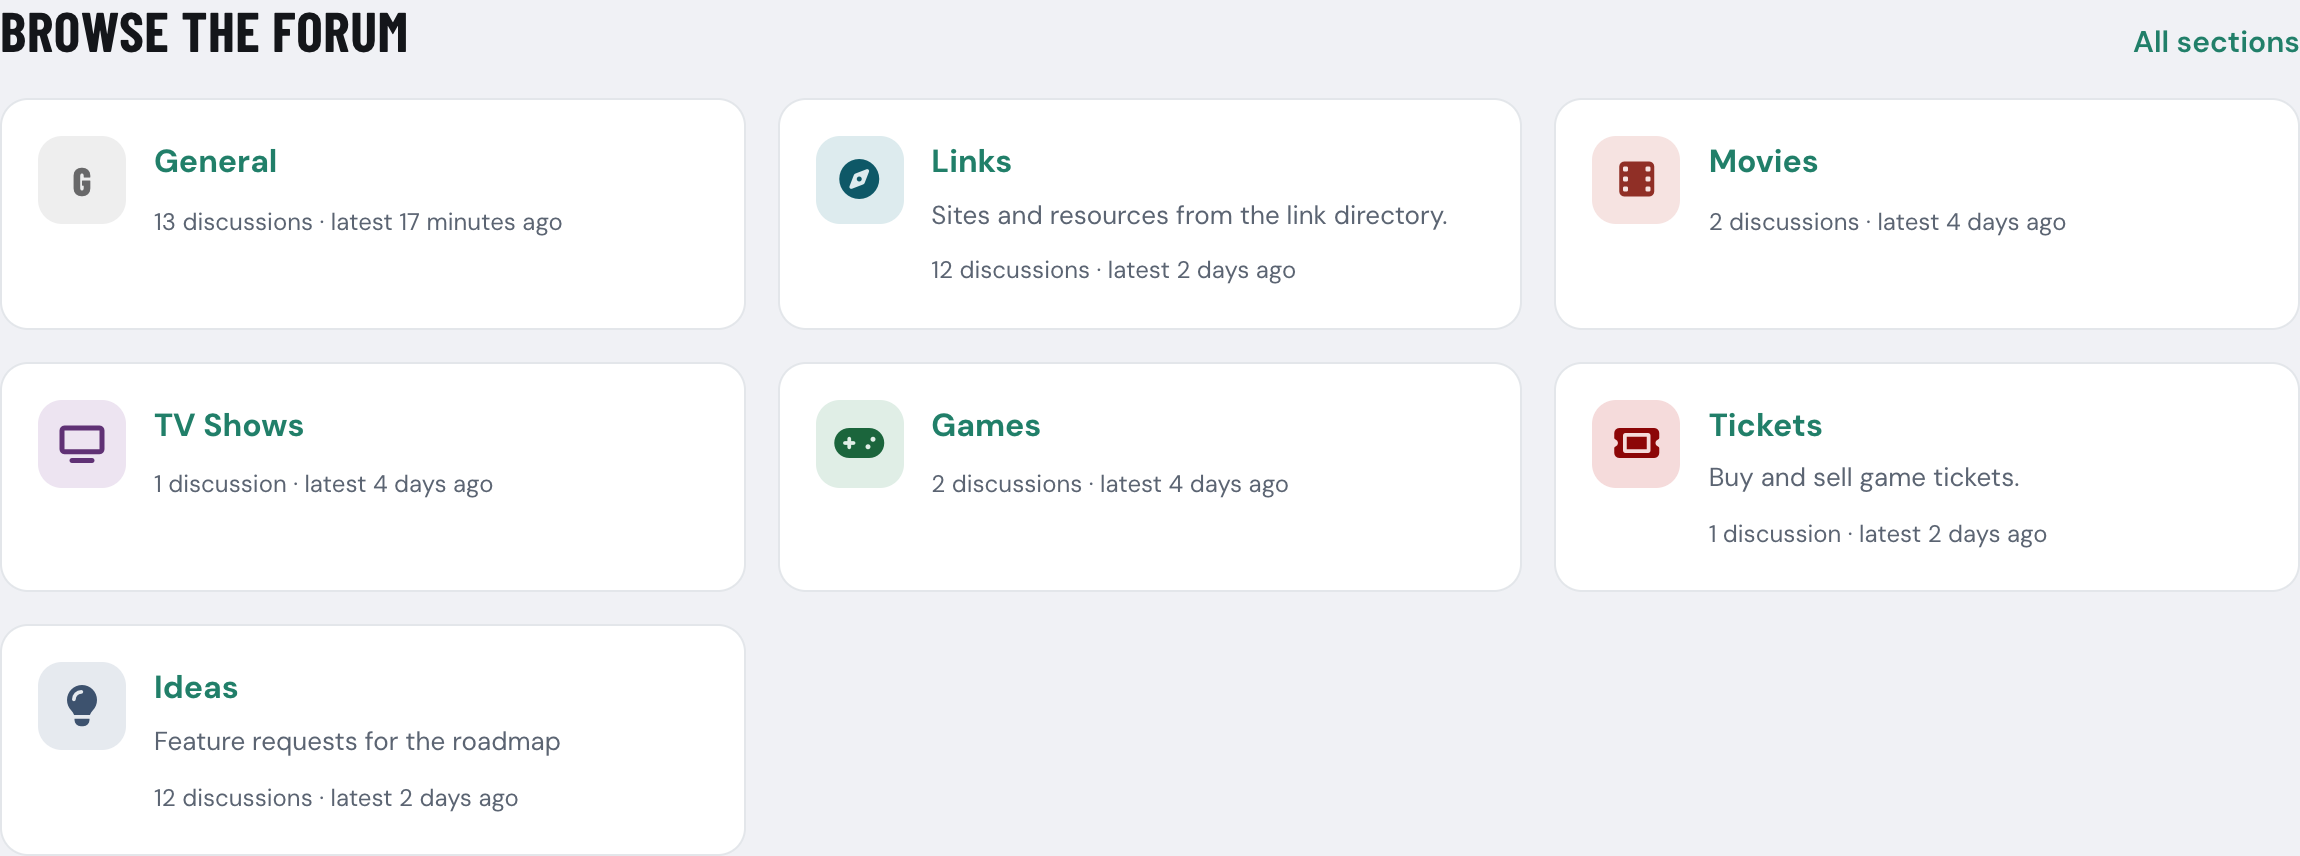
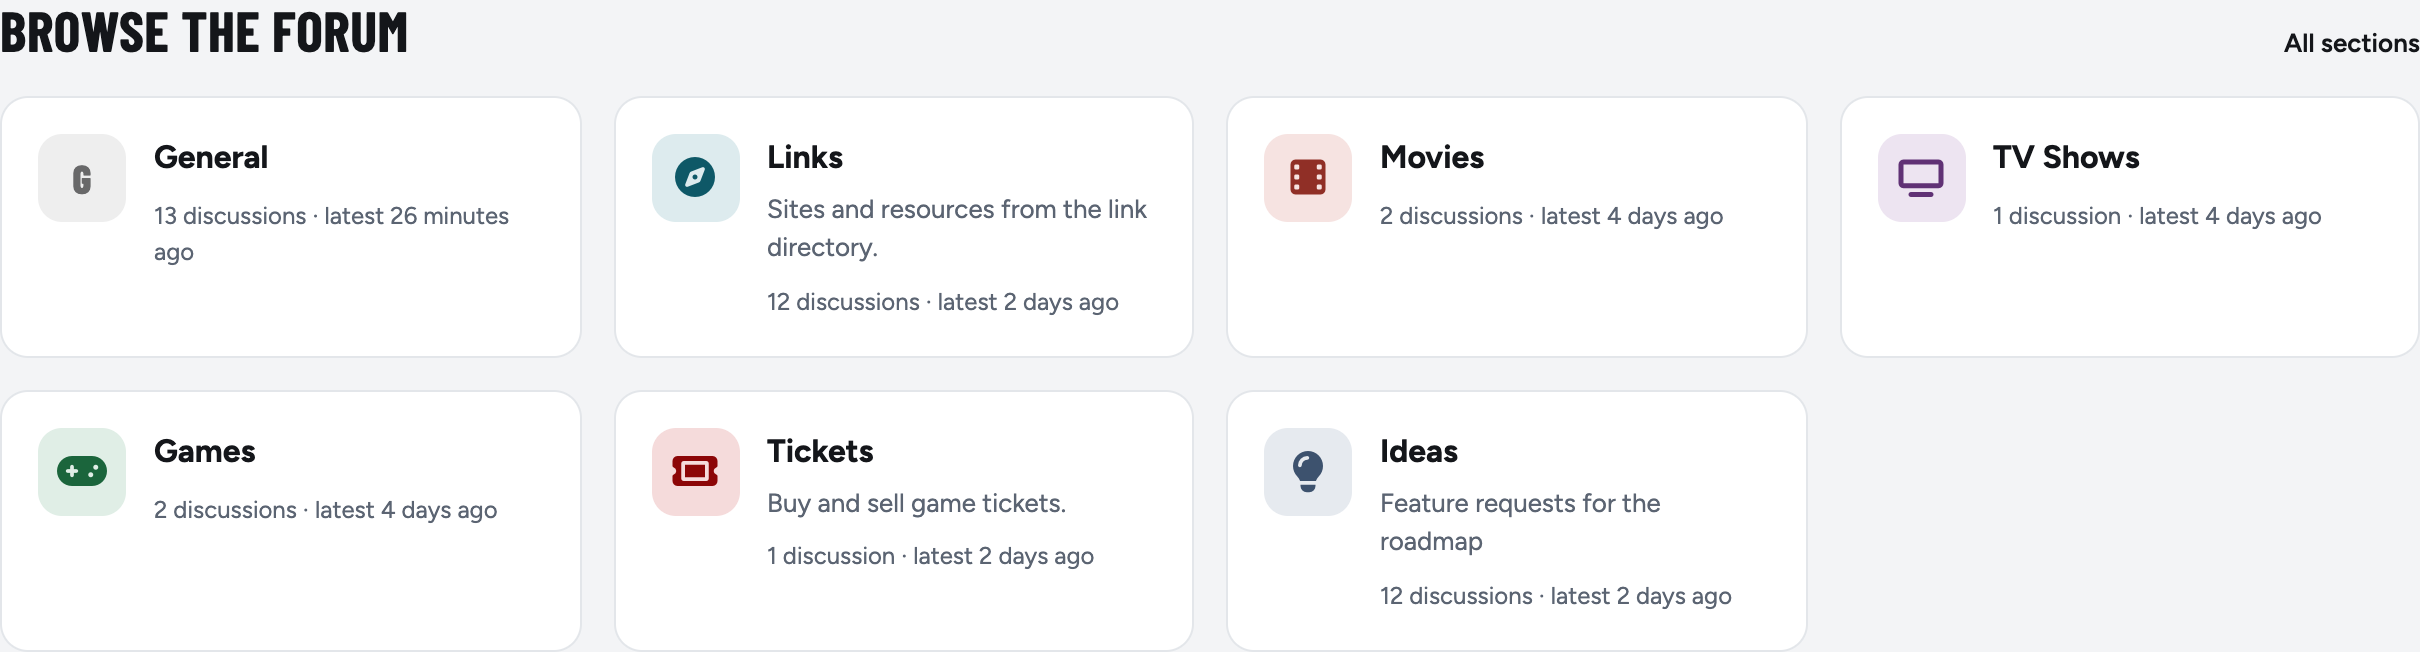
fix: a full launch screenshot set in the README
Taken on dev.ernestdefoe.online with Masthead served through Wardrobe, at 2x
for desktop, with temporary demo discussions (removed afterwards): the
portal (first screen, full page, dark), the discussion page, the tag grid,
the top-posters widget, Game Day beside Broadsheet, the admin settings, and
the portal and discussion page on the iPhone 17 simulator and the Android
emulator. 01 to 04 are the four for the Depot listing.

diff --git a/README.md b/README.md
@@ -5,7 +5,7 @@ front page. A navy masthead with a utility strip, a featured story with three
 beside it, a grid of the forum's sections, the latest discussions and a
 sidebar of widgets, on a grey ground of white cards.
 
-![Masthead's portal](screenshots/portal.png)
+![Masthead's portal: the masthead, a featured story and three beside it](screenshots/01-portal.png)
 
 ---
 
@@ -32,7 +32,13 @@ sidebar of widgets, on a grey ground of white cards.
   chips, the latest list and a floating **Start a discussion**.
 - **Dark mode**, following Flarum's own light, dark and high-contrast modes.
 
-<img src="screenshots/phone.png" alt="Masthead on a phone" width="390">
+![The whole portal, top to bottom](screenshots/portal-full.png)
+
+![Browse the forum: a tile for each section](screenshots/tag-grid.png)
+
+<img src="screenshots/widgets.png" alt="The Top posters this week widget" width="300">
+
+![Masthead on an iPhone and an Android phone](screenshots/04-phones.png)
 
 ---
 
@@ -62,9 +68,14 @@ Every discussion reads as an article with a discussion below it.
 It is Flarum's own discussion page underneath, so mentions, reactions,
 likes, best answers and anything else you have installed keep working.
 
-![A discussion in Masthead](screenshots/topic.png)
+![A discussion in Masthead: the story header, the article and the sidebar](screenshots/02-topic.png)
 
-<img src="screenshots/topic-phone.png" alt="A discussion on a phone" width="390">
+<p>
+<img src="screenshots/phone-topic-ios.png" alt="A discussion on an iPhone" width="260">
+<img src="screenshots/phone-topic-android.png" alt="A discussion on Android" width="260">
+<img src="screenshots/phone-portal-ios.png" alt="The portal on an iPhone" width="260">
+<img src="screenshots/phone-portal-android.png" alt="The portal on Android" width="260">
+</p>
 
 ---
 
@@ -86,13 +97,15 @@ Flarum's own primary colour or any colour you choose; the masthead can take any
 colour; the feature can be full width, split or off. Your changes stay when you
 switch presets.
 
-![The Sunday preset: charcoal, orange and a split feature](screenshots/preset-sunday.png)
+![Two presets side by side: Game Day and Broadsheet](screenshots/03-presets.png)
 
 ![Masthead in dark mode](screenshots/portal-dark.png)
 
 ---
 
 ## Settings
+
+![Masthead's settings: presets, accent, masthead colour, featured stories and footer links](screenshots/admin.png)
 
 | Setting | What it does |
 |---|---|
